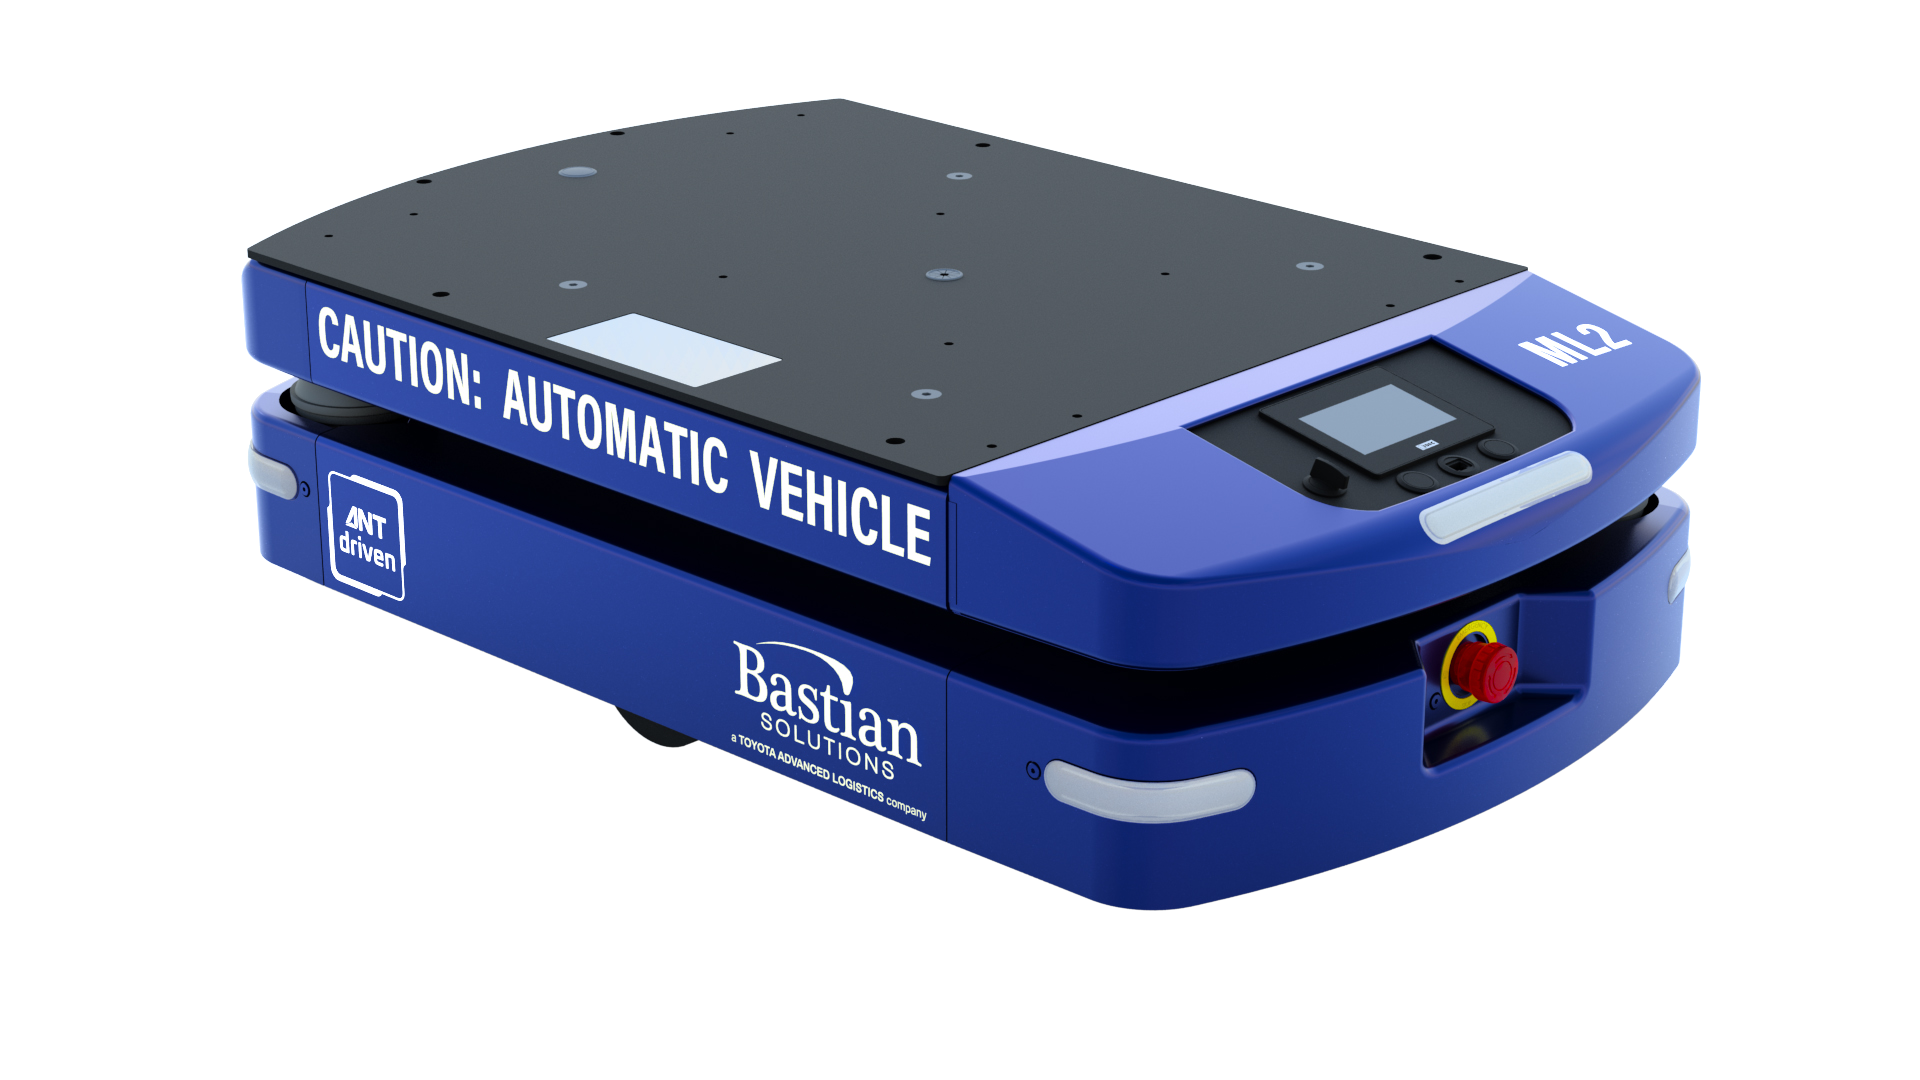
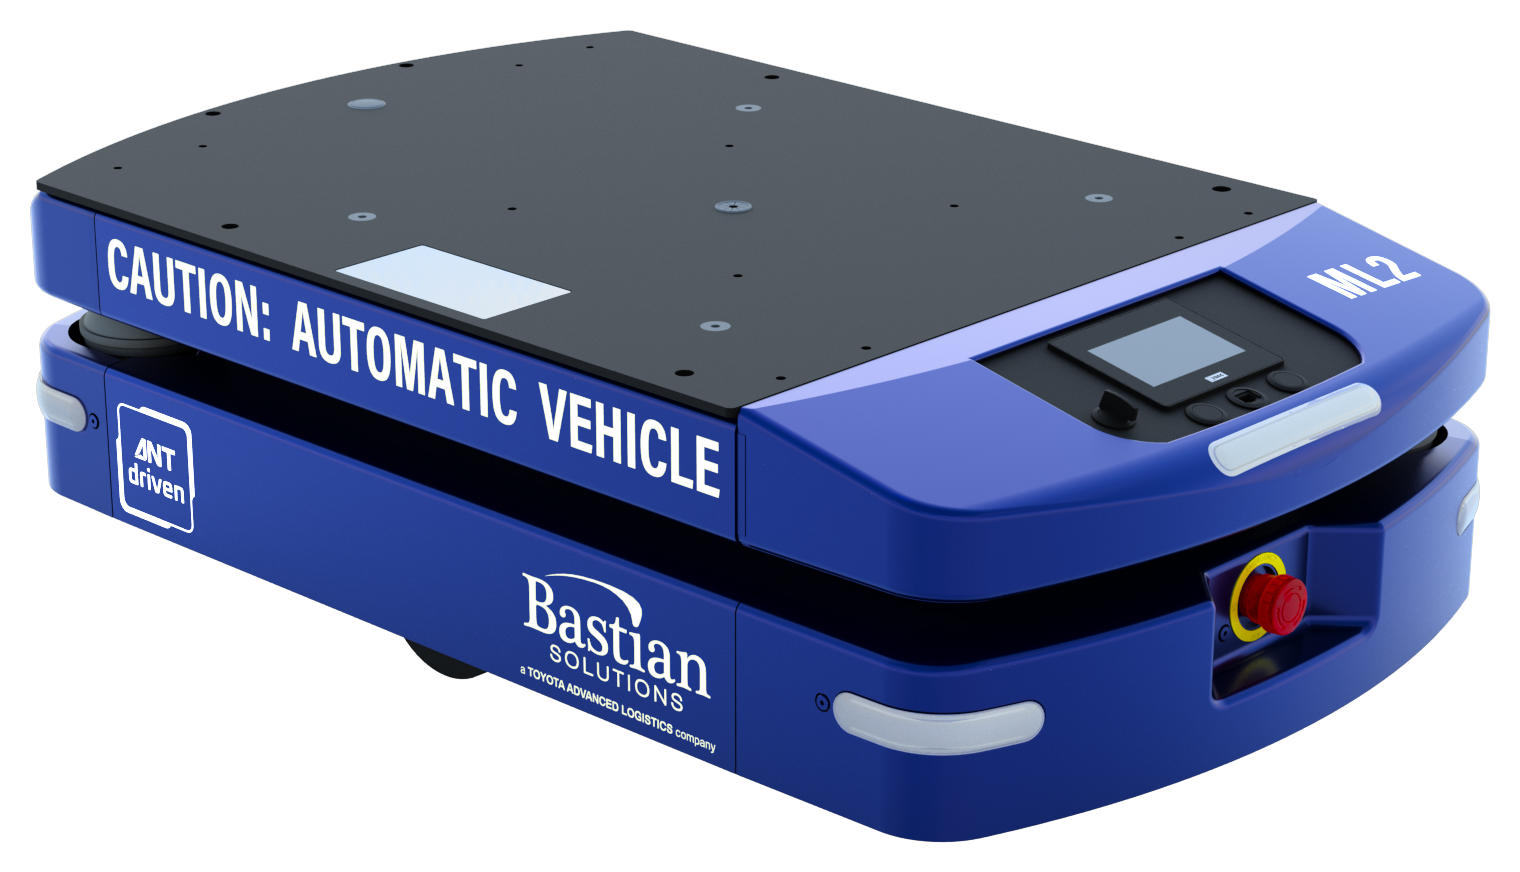
fix(step2): vehicle images — transparent backgrounds + even scaling
- Flood-fill white backgrounds to transparent on m10.png and 8tb50a
  (JPEG → 8tb50a.png; JSON updated, old .jpg removed) so they match the
  other four vehicles on the dark image tile
- Auto-crop all six PNGs to their alpha bounding box (+ small uniform
  margin) so each vehicle fills its frame and scales evenly/centered
  under object-fit: contain

diff --git a/docs/CHANGELOG.md b/docs/CHANGELOG.md
@@ -1,5 +1,15 @@
 # Changelog
 
+## 2026-06-13 — Vehicle images: transparent backgrounds + even scaling
+
+- **Removed baked-in white backgrounds** from `m10.png` and `8tb50a` (was a JPEG → now
+  `8tb50a.png`, JSON updated, old `.jpg` deleted). Background flood-filled to transparent
+  so both sit on the dark image tile like the other four vehicles.
+- **Auto-cropped all six vehicle PNGs to their content** (alpha bounding box + small uniform
+  margin) so each vehicle fills its frame. With the existing `object-fit: contain` + flex
+  centering, every vehicle now scales to a consistent size and is centered (no more "some
+  look bigger" from uneven built-in whitespace).
+
 ## 2026-06-13 — /simplify cleanup pass (behavior-neutral refactor)
 
 DRY / dead-code cleanup, no behavior change (160/160 tests green, tsc clean):
